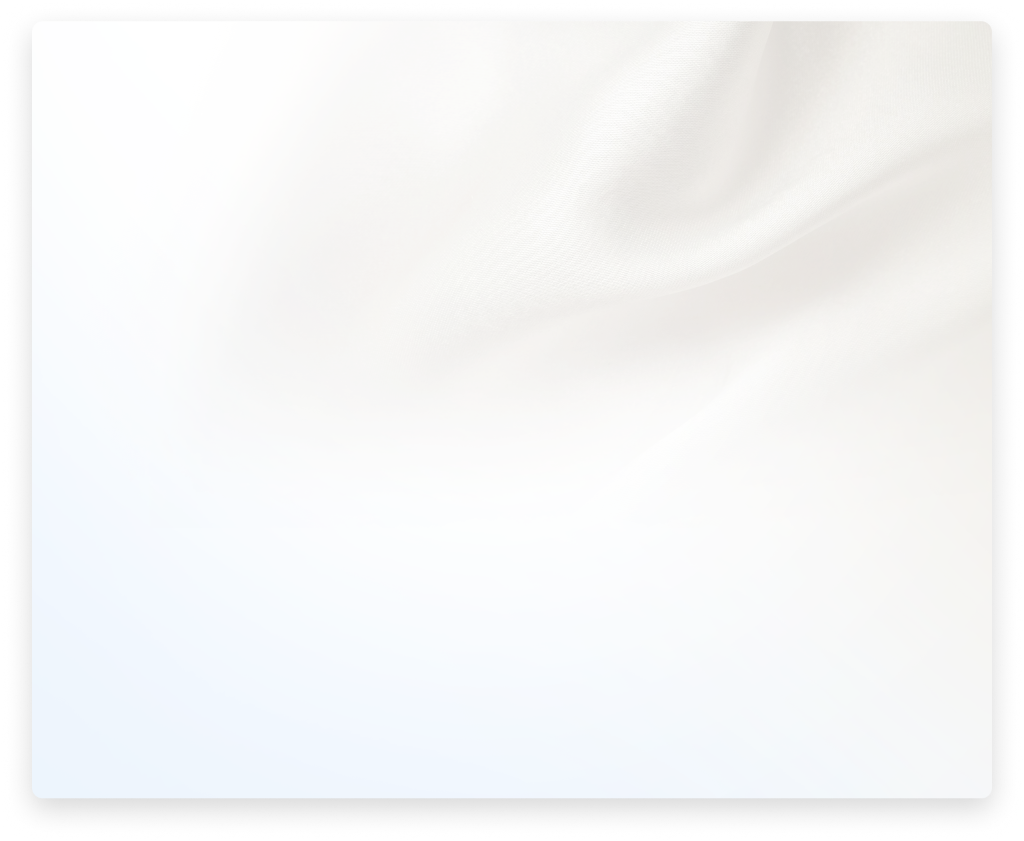
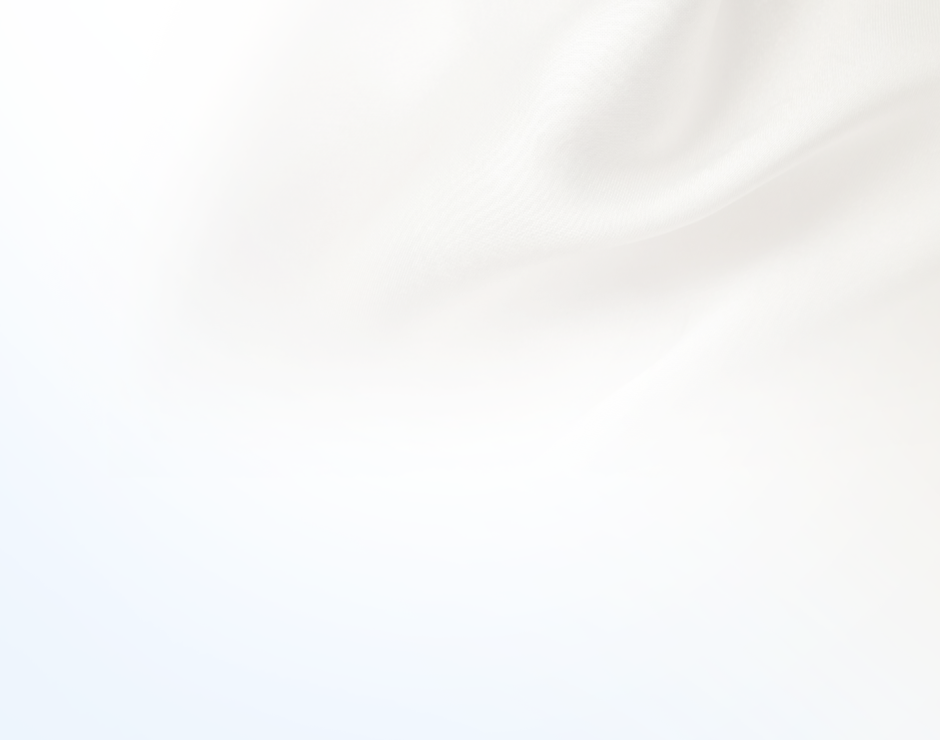
Crop card frame from quiz fabric and lighten its overlay so the texture shows.

diff --git a/suit-quiz/src/styles.css b/suit-quiz/src/styles.css
@@ -1844,7 +1844,7 @@ h2 {
 
 .intro-modal {
   animation: intro-rise 260ms cubic-bezier(0.2, 0.7, 0.2, 1) both;
-  background: linear-gradient(0deg, rgba(255, 255, 255, 0.88), rgba(255, 255, 255, 0.88)), url("/quiz/quiz-fabric.png") center / cover no-repeat, #ffffff;
+  background: linear-gradient(0deg, rgba(255, 255, 255, 0.1), rgba(255, 255, 255, 0.1)), url("/quiz/quiz-fabric.png") center / cover no-repeat, #ffffff;
   border-radius: 16px;
   box-shadow: 0 24px 64px rgba(0, 20, 60, 0.16), 0 2px 8px rgba(0, 20, 60, 0.06);
   color: var(--color-font-black);
@@ -2067,7 +2067,7 @@ h2 {
   }
 
   .intro-modal {
-    background: linear-gradient(0deg, rgba(255, 255, 255, 0.8), rgba(255, 255, 255, 0.8)), url("/quiz/quiz-fabric.png") center / cover no-repeat, #f7f9fd;
+    background: linear-gradient(0deg, rgba(255, 255, 255, 0.25), rgba(255, 255, 255, 0.25)), url("/quiz/quiz-fabric.png") center / cover no-repeat, #f7f9fd;
     border-radius: 0;
     min-height: 100%;
   }
